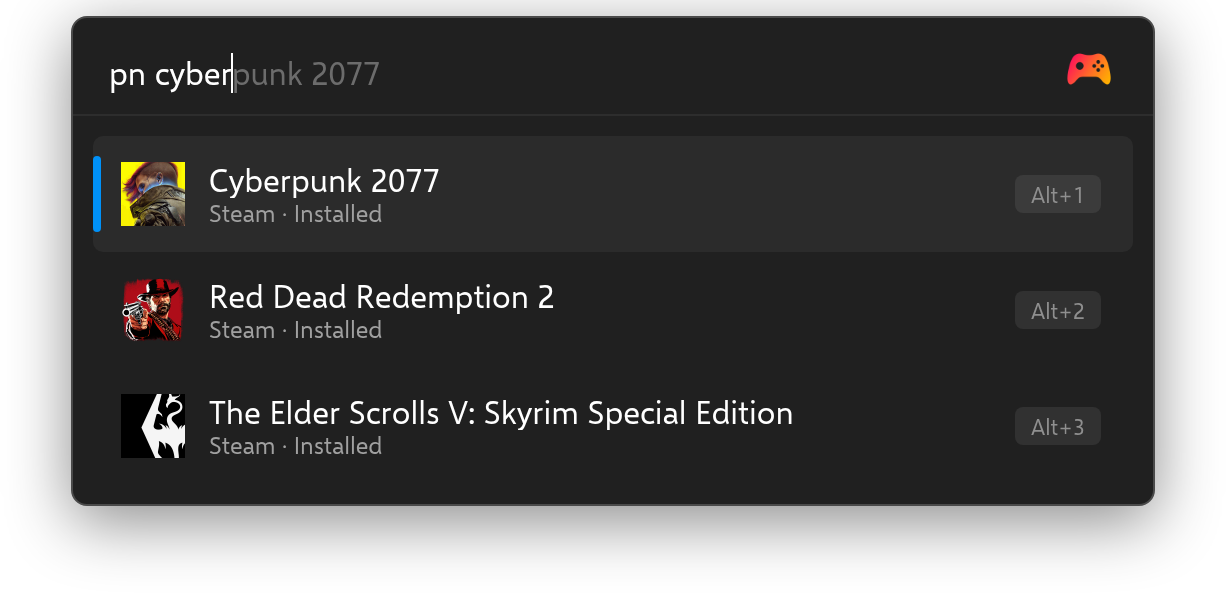
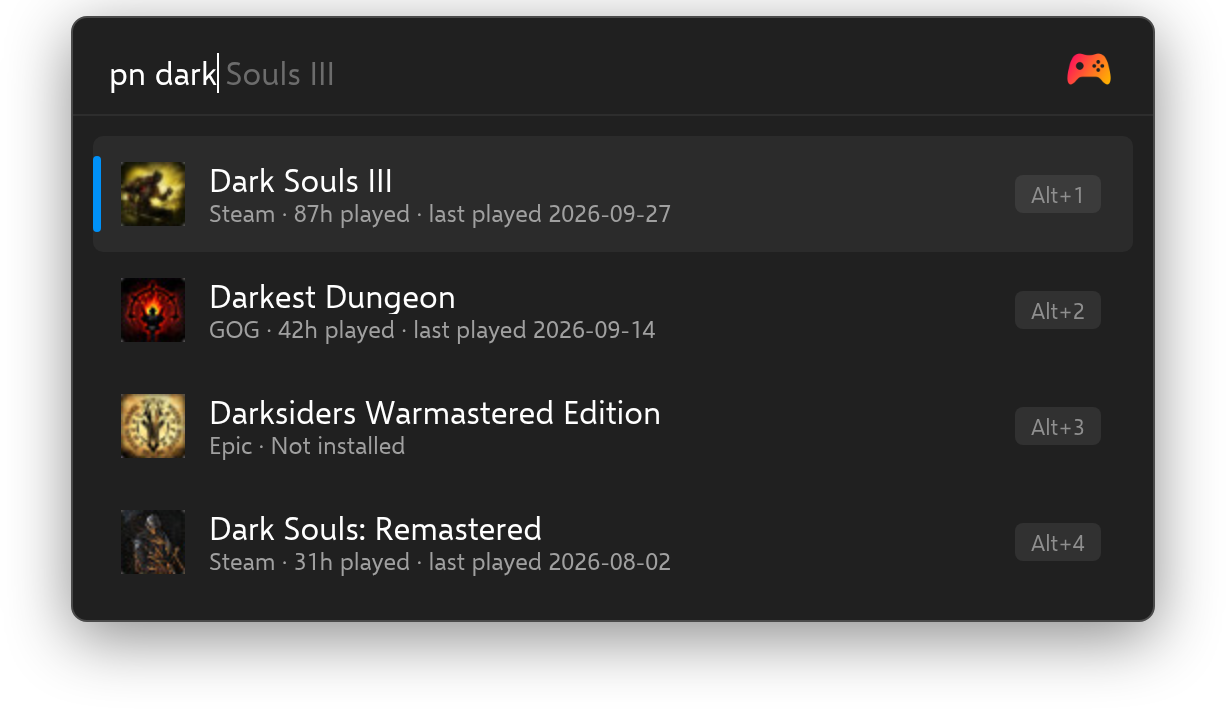
feat: only show install status for uninstalled games (#68)
* feat: drop install status from result subtitle

* docs: refresh README screenshot for the new subtitle

* fix: keep the Not installed label for uninstalled games

diff --git a/tests/test_game.py b/tests/test_game.py
@@ -75,7 +75,7 @@ def test_format_playtime():
 
 def test_game_subtitle():
     game = Game.from_doc(doc(), {SOURCE_ID: "Steam"})
-    assert game_subtitle(game) == "Steam · Installed · 2h played · last played 2026-08-14"
+    assert game_subtitle(game) == "Steam · 2h played · last played 2026-08-14"
     bare = Game.from_doc({"_id": UUID(GAME_ID), "Name": "Bare"}, {})
     assert game_subtitle(bare) == "Not installed"
 

diff --git a/src/plugin/playnite.py b/src/plugin/playnite.py
@@ -117,7 +117,7 @@ class Game:
 def game_subtitle(game: Game) -> str:
     parts = [
         game.source,
-        "Installed" if game.is_installed else "Not installed",
+        None if game.is_installed else "Not installed",
         format_playtime(game.playtime),
     ]
     if game.last_activity:

diff --git a/README.md b/README.md
@@ -24,7 +24,7 @@ Search and launch your Playnite library. Fully local, no Playnite extension requ
 Type `pn` followed by a game name:
 
 ```
-pn cyber
+pn dark
 ```
 
 ![Playnite results in Flow Launcher](.github/assets/screenshot.png)
